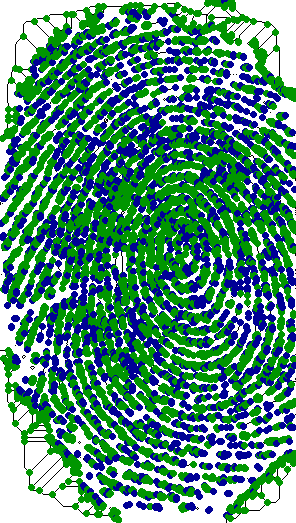
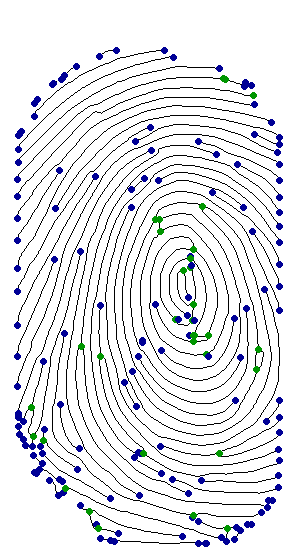
13:08 17/5: trc khi sang nha hien hop

diff --git a/code_output_nhiueanh/finegerprint_pipline.py b/code_output_nhiueanh/finegerprint_pipline.py
@@ -12,7 +12,7 @@ from utils.crossing_number import calculate_minutiaes
 from tqdm import tqdm
 from utils.skeletonize import skeletonize
 
-ip_img = cv.imread("F:/CODE/code_output_nhiueanh/segmented.jpg",0)
+ip_img = cv.imread("F:/CODE/code_output_nhiueanh/anh_thinning_diy.jpg")
 
 def fingerprint_pipline(input_img):
     block_size = 16
@@ -22,52 +22,43 @@ def fingerprint_pipline(input_img):
 
     # normalization - removes the effects of sensor noise and finger pressure differences.
     normalized_img = normalize(input_img.copy(), float(100), float(100))
+    normalized_img = input_img
 
     # color threshold
-    _, threshold_img = cv.threshold(normalized_img,0,255,cv.THRESH_BINARY| cv.THRESH_OTSU)
-    cv.imshow('color_threshold', threshold_img); cv.waitKeyEx()
-    normalized_img = threshold_img
+    # threshold_img = normalized_img
+    # _, threshold_im = cv.threshold(normalized_img,127,255,cv.THRESH_OTSU)
+    # cv.imshow('color_threshold', normalized_img); cv.waitKeyEx()
 
     # ROI and normalisation
     (segmented_img, normim, mask) = create_segmented_and_variance_images(normalized_img, block_size, 0.2)
-    #cv.imwrite('segmented.jpg', segmented_img)
-
-    
 
     # orientations
-    #angles = orientation.calculate_angles(normalized_img, W=block_size, smoth=False)
-    #orientation_img = orientation.visualize_angles(segmented_img, mask, angles, W=block_size)
-    #cv.imshow('ori', orientation_img)
-    #gabor_img = segmented_img
+    angles = orientation.calculate_angles(normalized_img, W=block_size, smoth=False)
+    orientation_img = orientation.visualize_angles(segmented_img, mask, angles, W=block_size)
+
     # find the overall frequency of ridges in Wavelet Domain
-    #freq = ridge_freq(normim, mask, angles, block_size, kernel_size=5, minWaveLength=5, maxWaveLength=15)
+    freq = ridge_freq(normim, mask, angles, block_size, kernel_size=5, minWaveLength=5, maxWaveLength=15)
 
     # create gabor filter and do the actual filtering
-    #gabor_img = gabor_filter(normim, angles, freq)
+    gabor_img = gabor_filter(normim, angles, freq)
     #gabor_img = normalized_img
 
     # thinning oor skeletonize
-    #them//////
-    mty = np.zeros(ip_img.shape, np.uint8) 
-    ip2_img = cv.bitwise_or(mty, ip_img)
-    cv.imshow('ip2', ip2_img)
-    #het them
-    thin_image = skeletonize(ip2_img)
+    thin_image = skeletonize(gabor_img)
 
     # minutias
     minutias = calculate_minutiaes(thin_image)
 
     # singularities
-    #singularities_img = calculate_singularities(thin_image, angles, 1, block_size, mask)
+    singularities_img = calculate_singularities(thin_image, angles, 1, block_size, mask)
 
     # visualize pipeline stage by stage
-    output_imgs = [input_img, normalized_img, segmented_img, thin_image, minutias]
+    output_imgs = [input_img, normalized_img, segmented_img, orientation_img, gabor_img, thin_image, minutias, singularities_img]
     for i in range(len(output_imgs)):
         if len(output_imgs[i].shape) == 2:
             output_imgs[i] = cv.cvtColor(output_imgs[i], cv.COLOR_GRAY2RGB)
     #results = np.concatenate([np.concatenate(output_imgs[:4], 1), np.concatenate(output_imgs[4:], 1)]).astype(np.uint8)
     results = minutias
-    
     return results
 
 
@@ -87,4 +78,4 @@ if __name__ == '__main__':
     for i, img in enumerate(tqdm(images)):
         results = fingerprint_pipline(img)
         cv.imwrite(output_dir+str(i)+'.png', results)
-        cv.imshow('image pipeline', results); cv.waitKeyEx()
+        # cv.imshow('image pipeline', results); cv.waitKeyEx()
